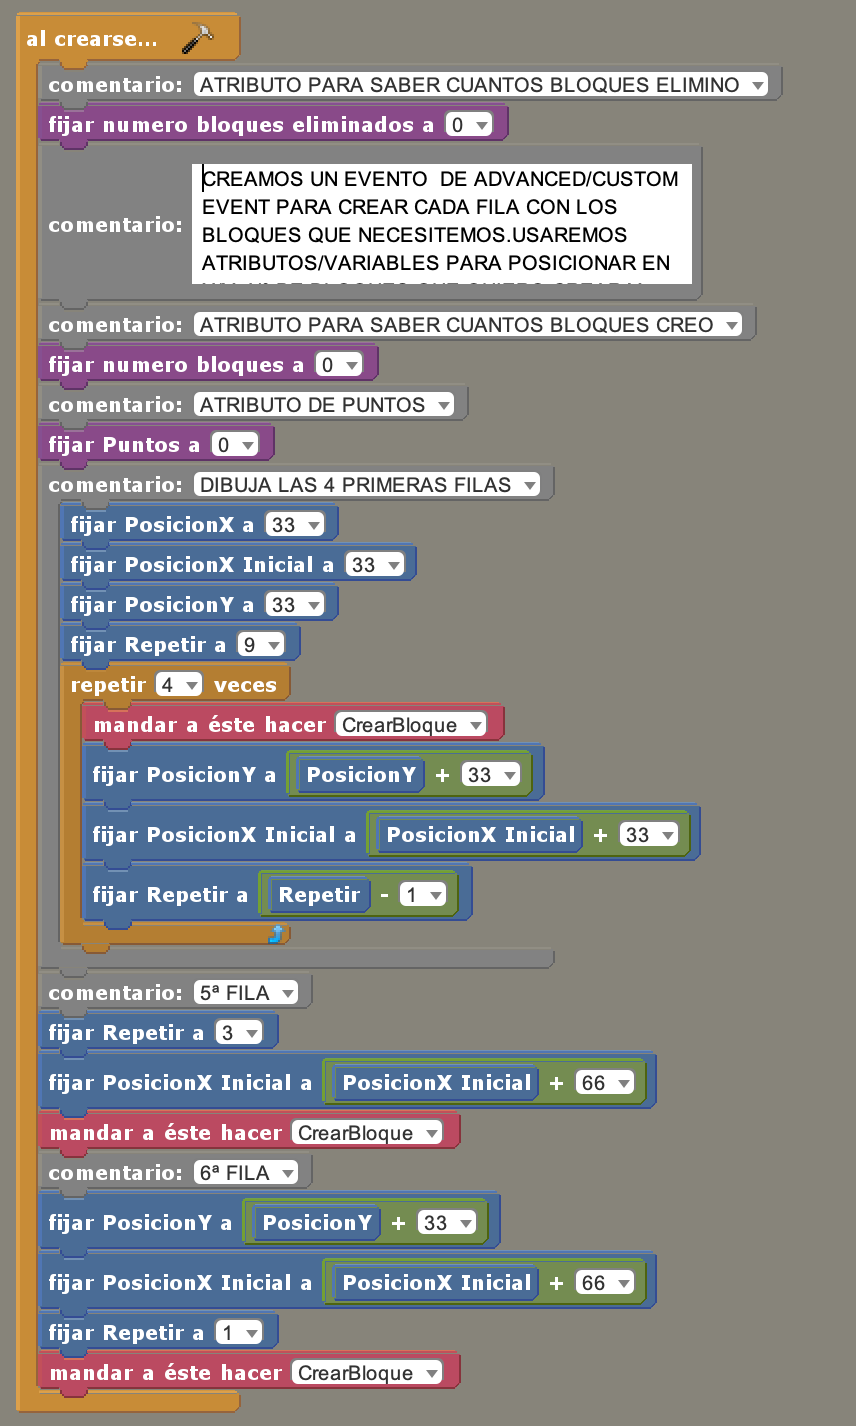
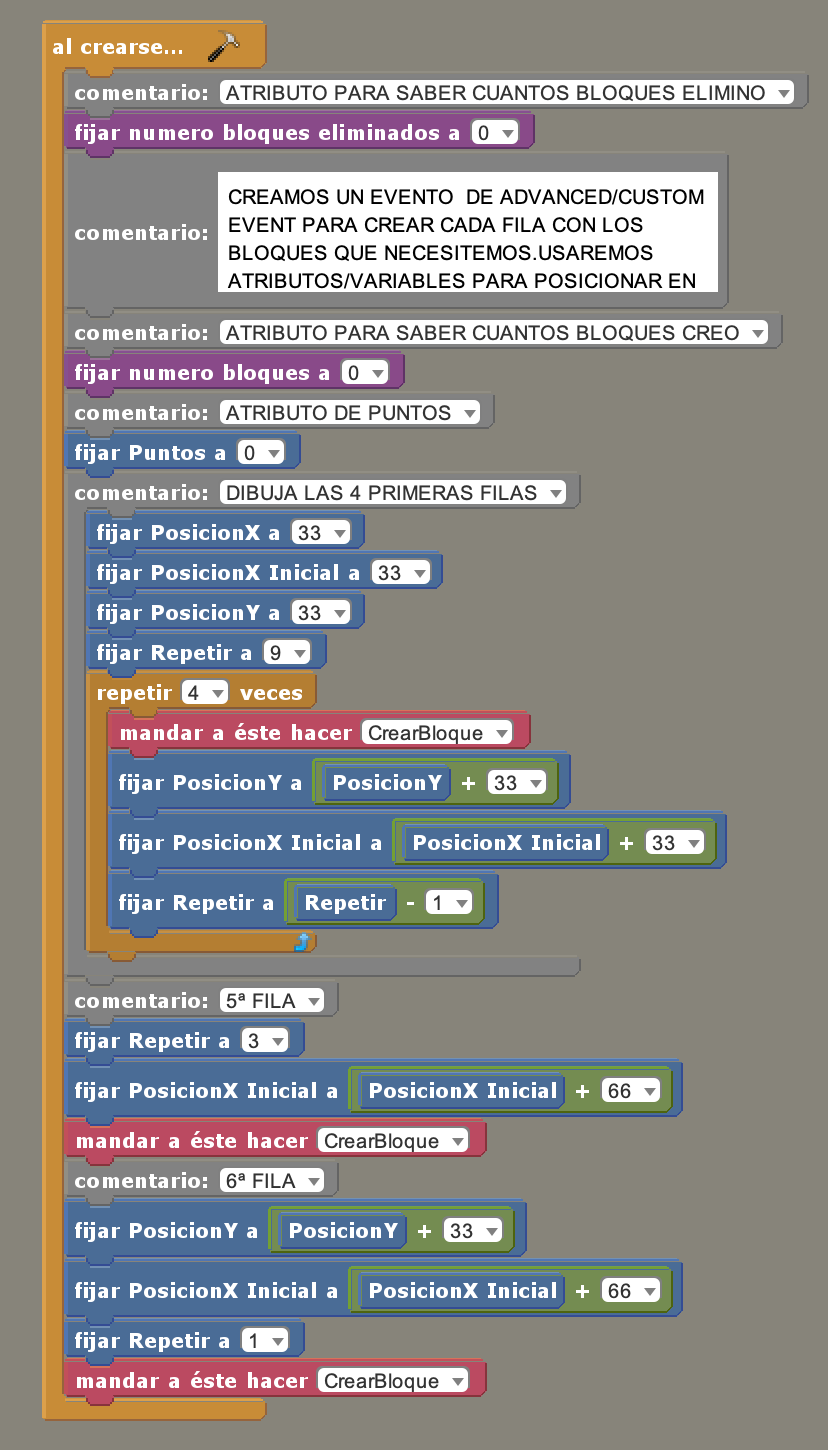
.

diff --git a/actividad2.html b/actividad2.html
@@ -167,7 +167,7 @@
        <p class="img_centrada"><img src="img/actividad2/2-14.png" width="60%" alt=""></p>
 
        <p class="nota">    
-         Faltaria hacer algo mñas en la entidad Geen Block pero lo veremos más adelante.
+         Faltaria hacer algo más en la entidad Geen Block pero lo veremos más adelante.
       </p>
 
       <h4>Paddle</h4>